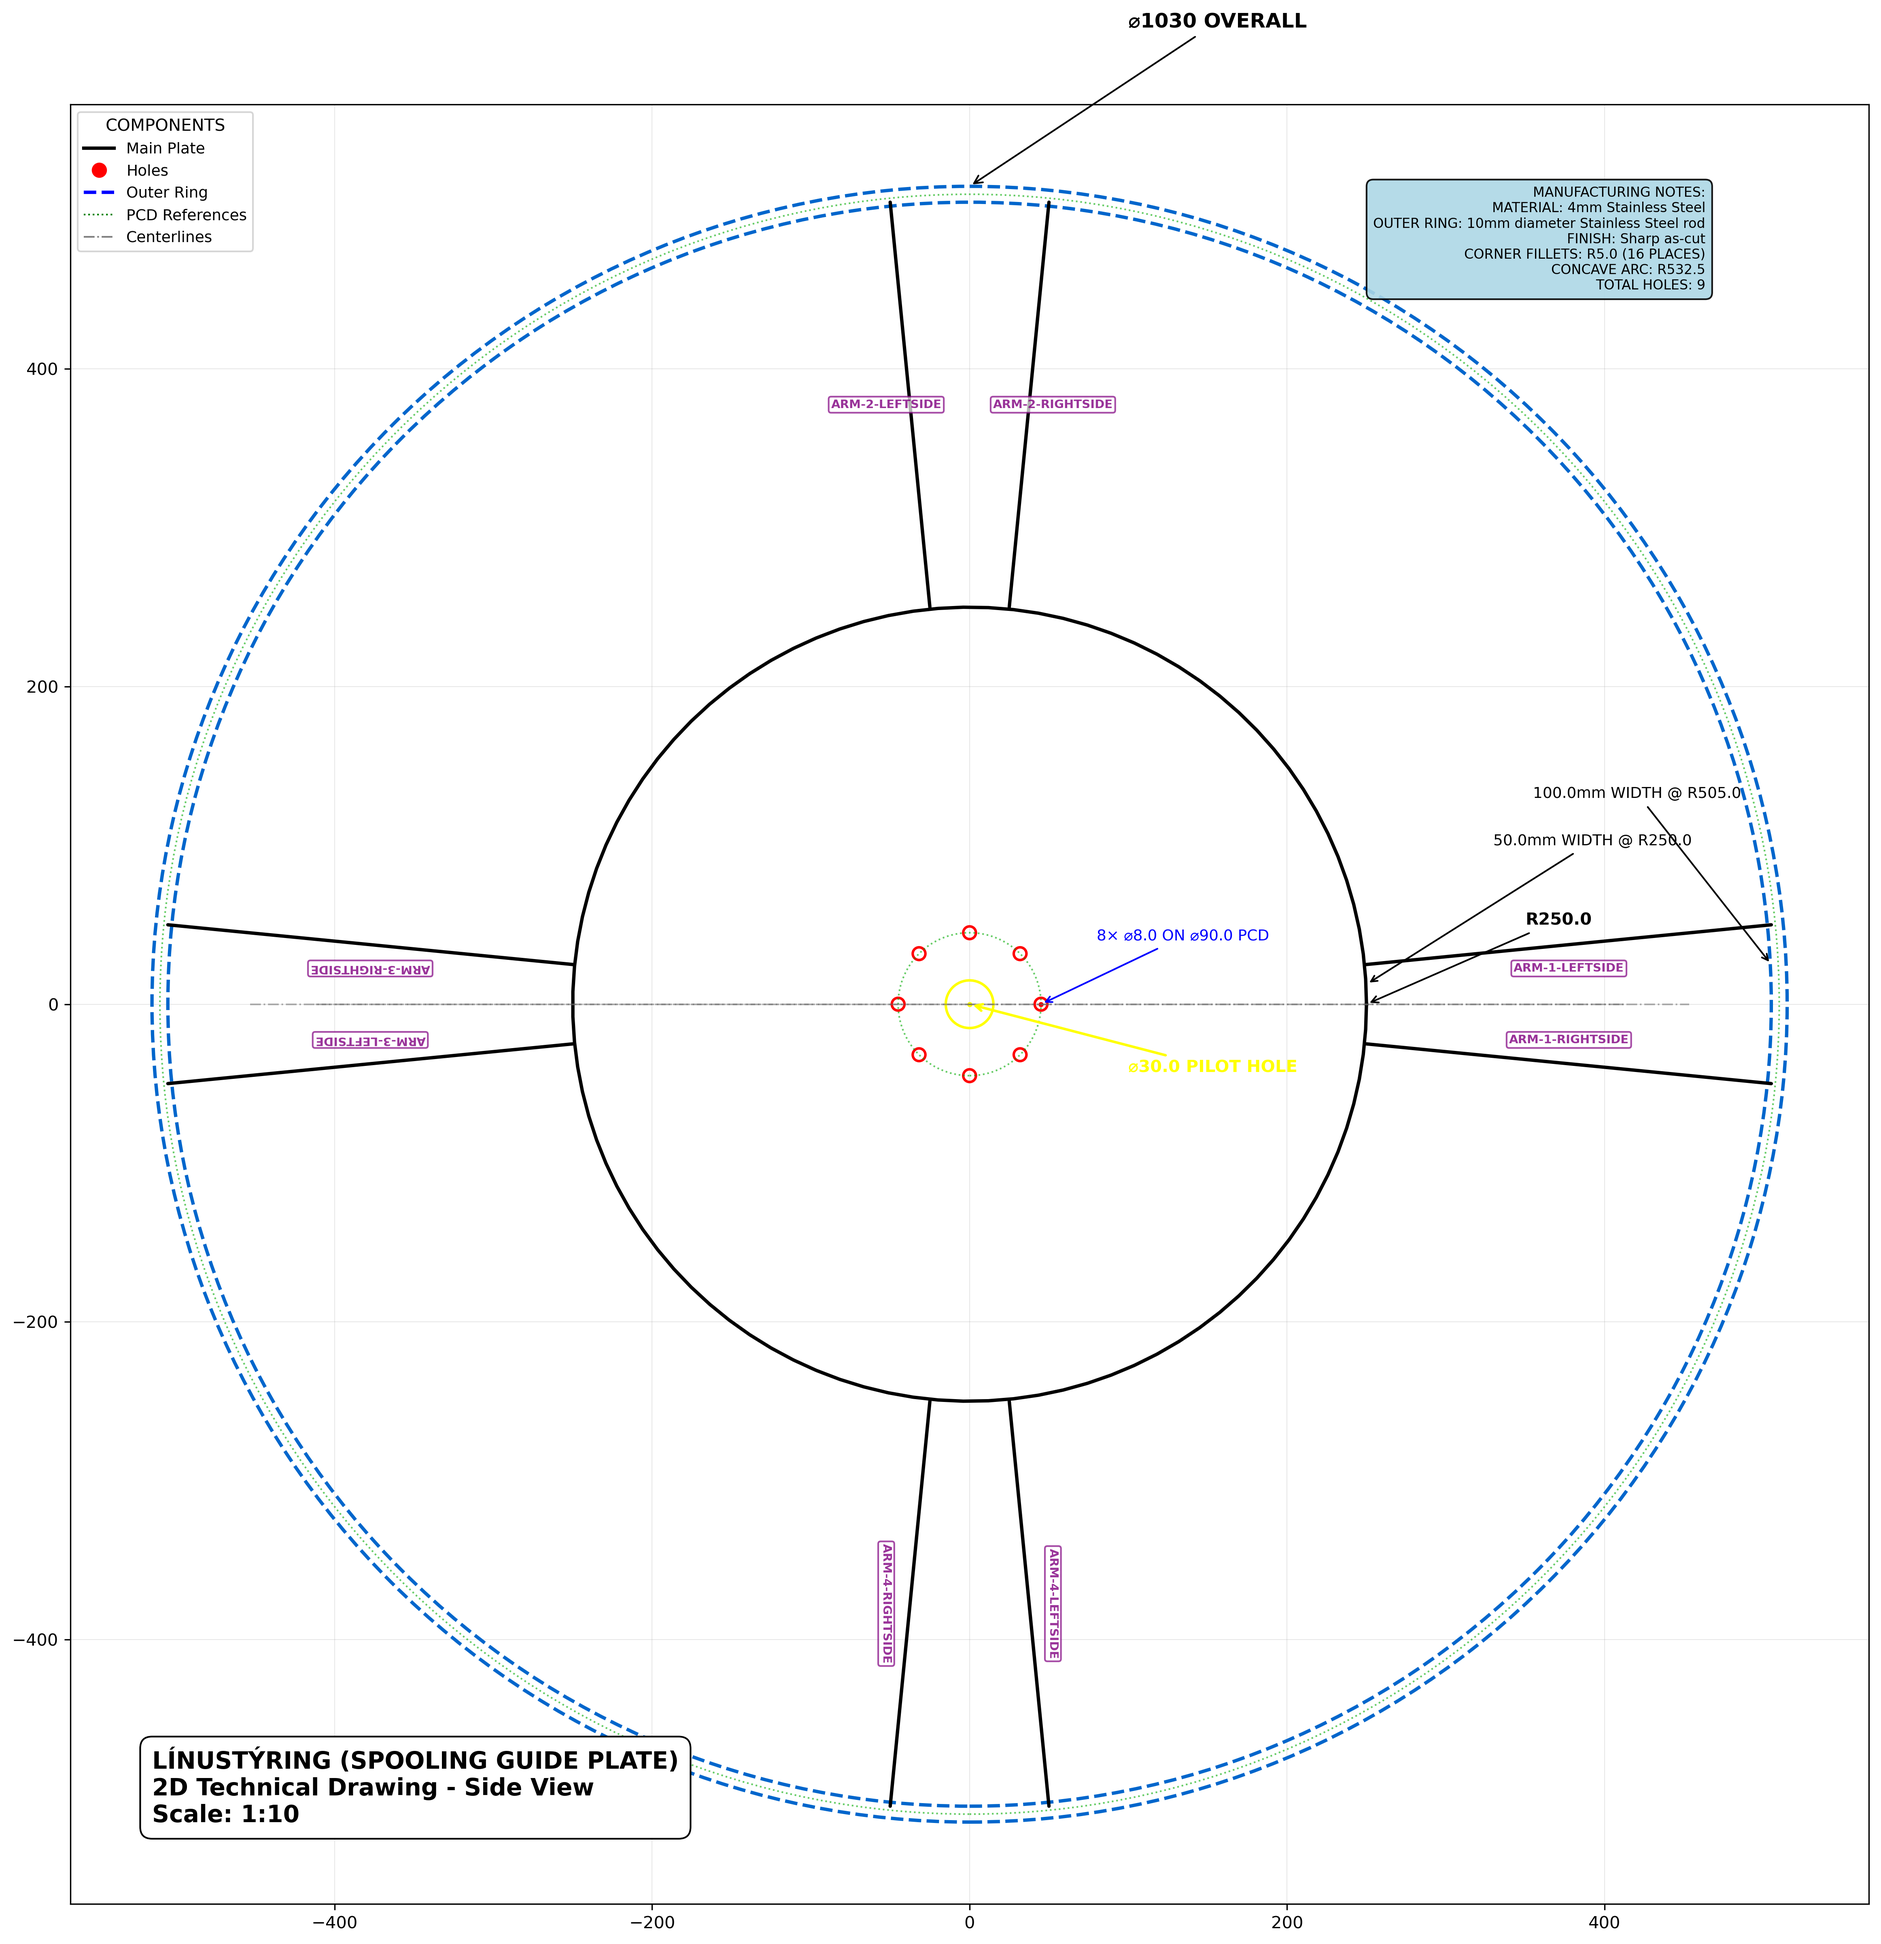
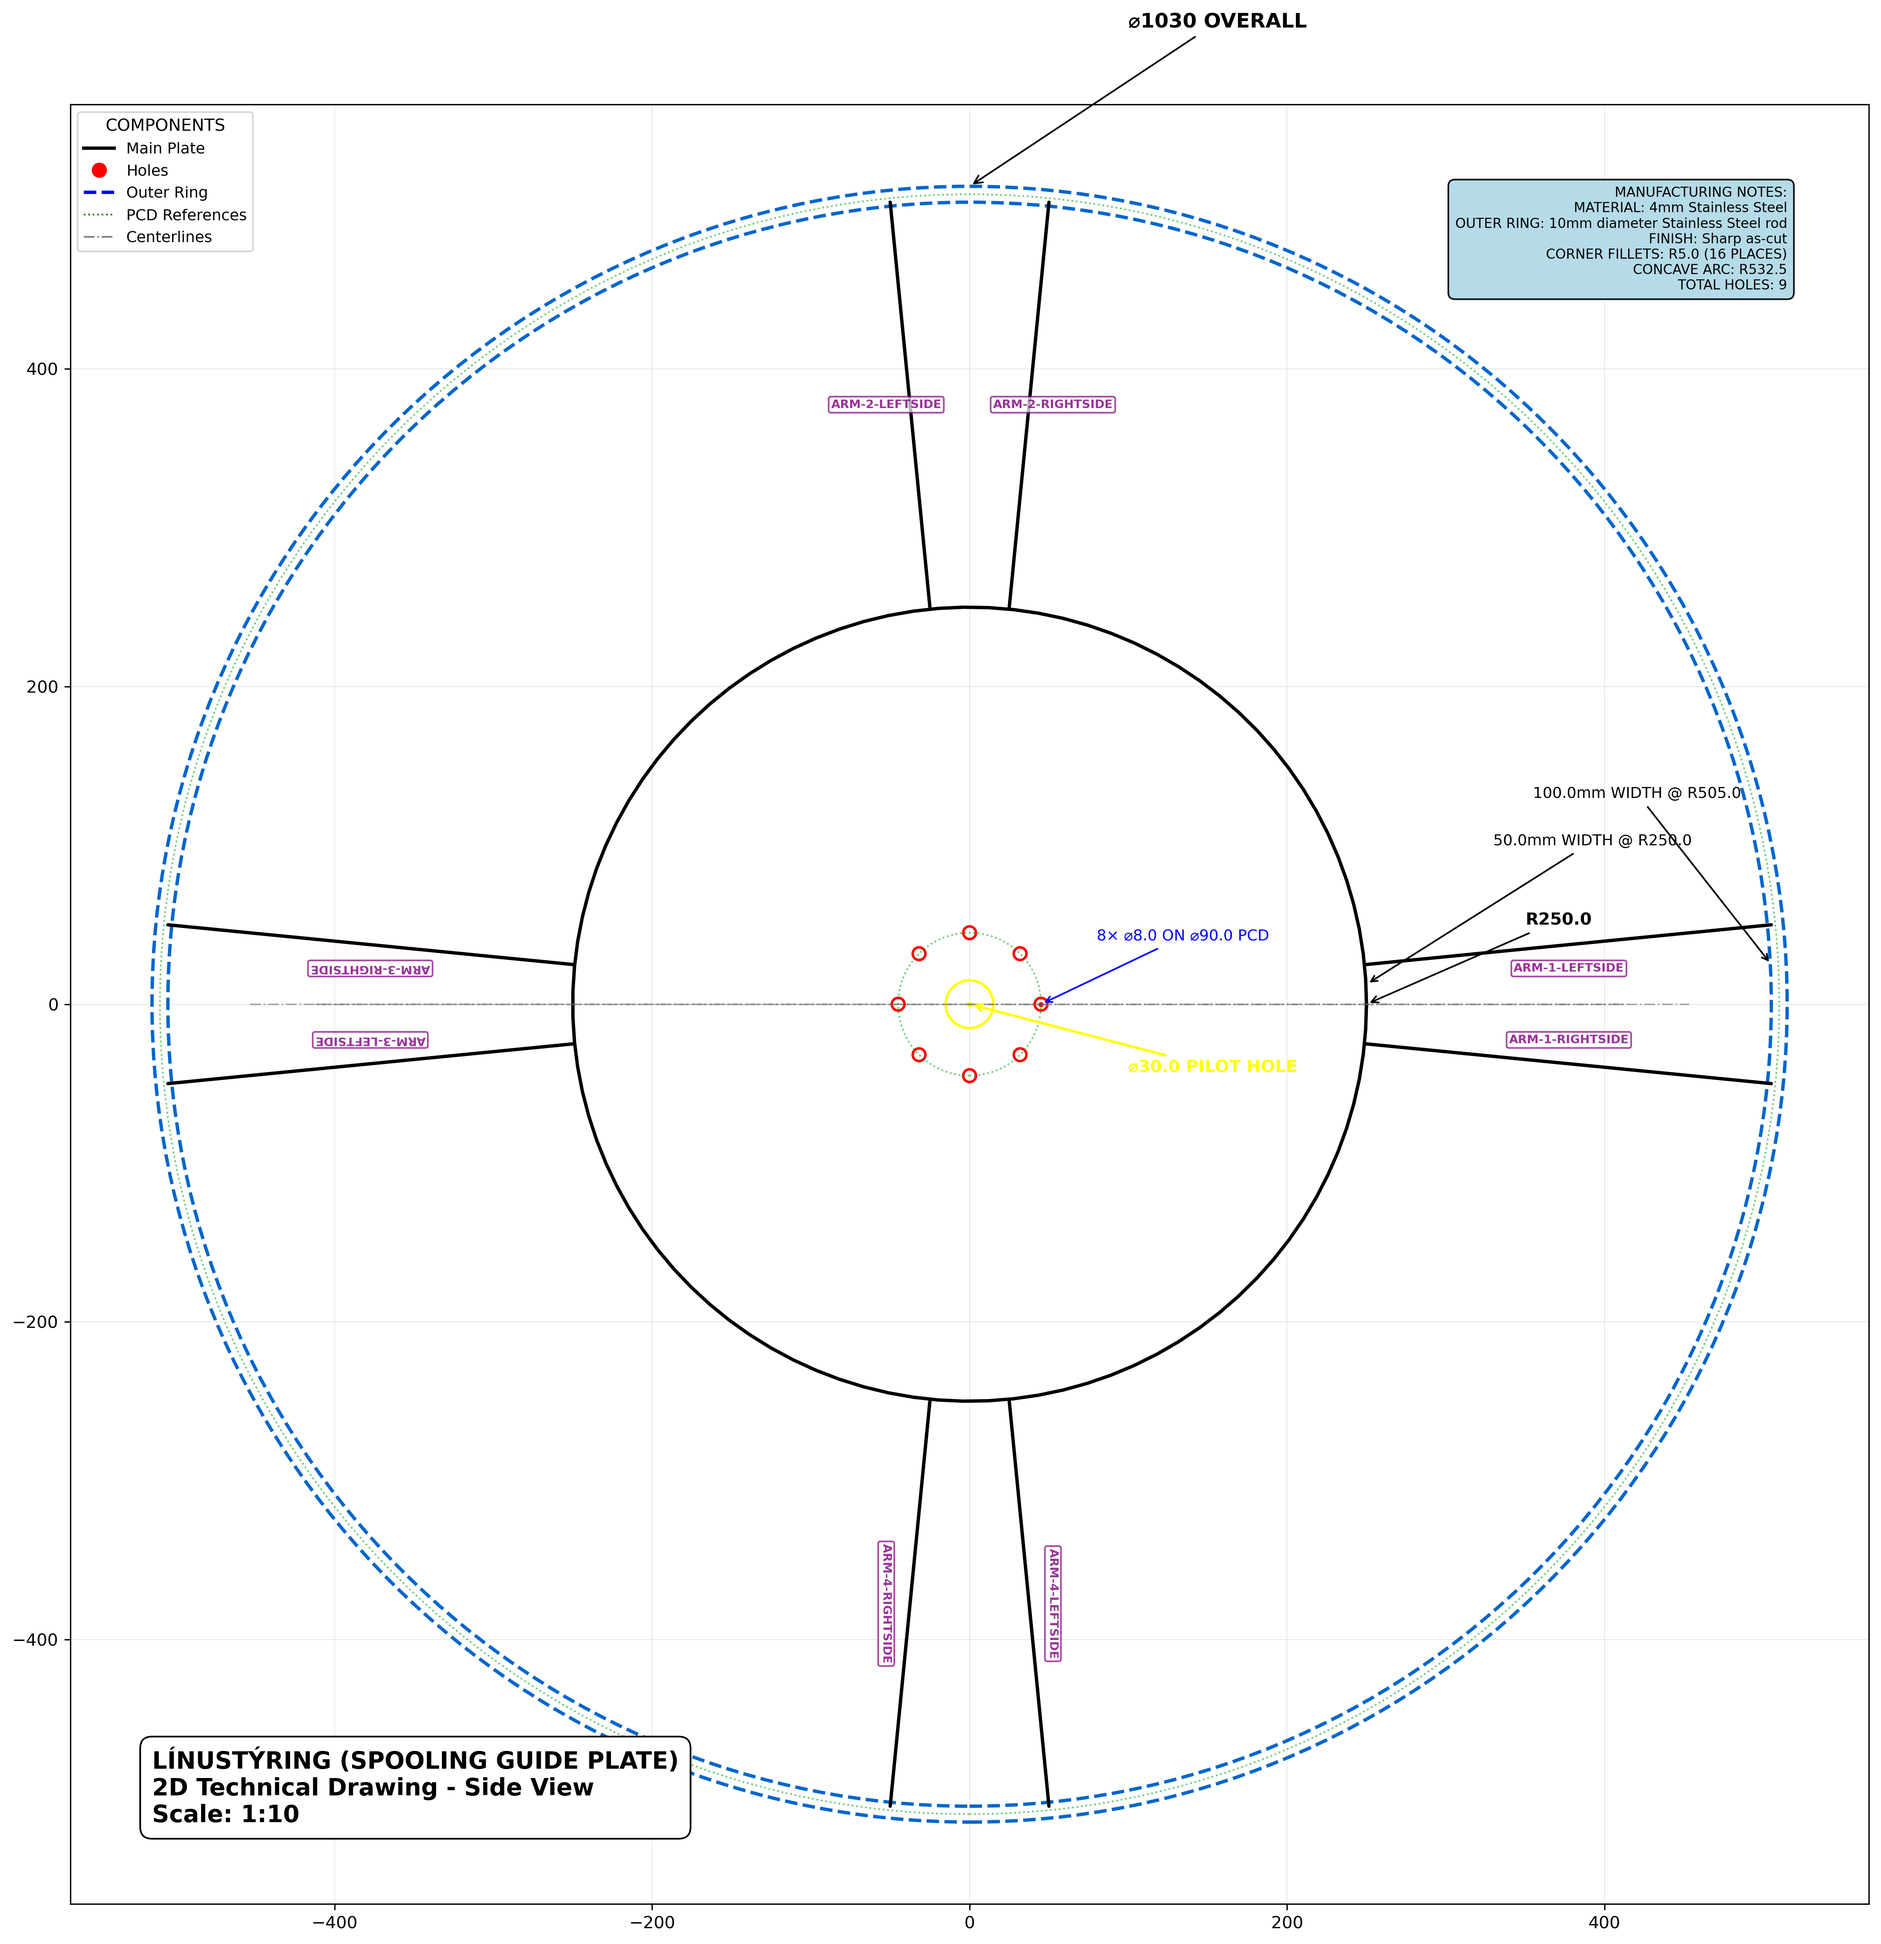
Move manufacturing notes a little bit more to the right
- Adjusted note_x from 0.9 to 1.0 (moved slightly further right)
- Maintained note_y at 1.0 (kept in upper area)
- Fine-tuned positioning for optimal upper-right corner placement
- Manufacturing notes now at exactly one radius distance to the right
- Perfect corner positioning for technical drawing layout

Changed region(s): [[0.7175, 0.0937, 0.9671, 0.1562]]

diff --git a/src/spooling_guide/annotations.py b/src/spooling_guide/annotations.py
@@ -104,7 +104,7 @@ def add_material_notes(ax):
         ax: Matplotlib axes object
     """
     overall_dims = geom.calculate_overall_dimensions()
-    note_x = overall_dims['overall_radius'] * 0.9   # Further right
+    note_x = overall_dims['overall_radius'] * 1.0   # A bit more to the right
     note_y = overall_dims['overall_radius'] * 1.0   # Further up
     
     notes = [
